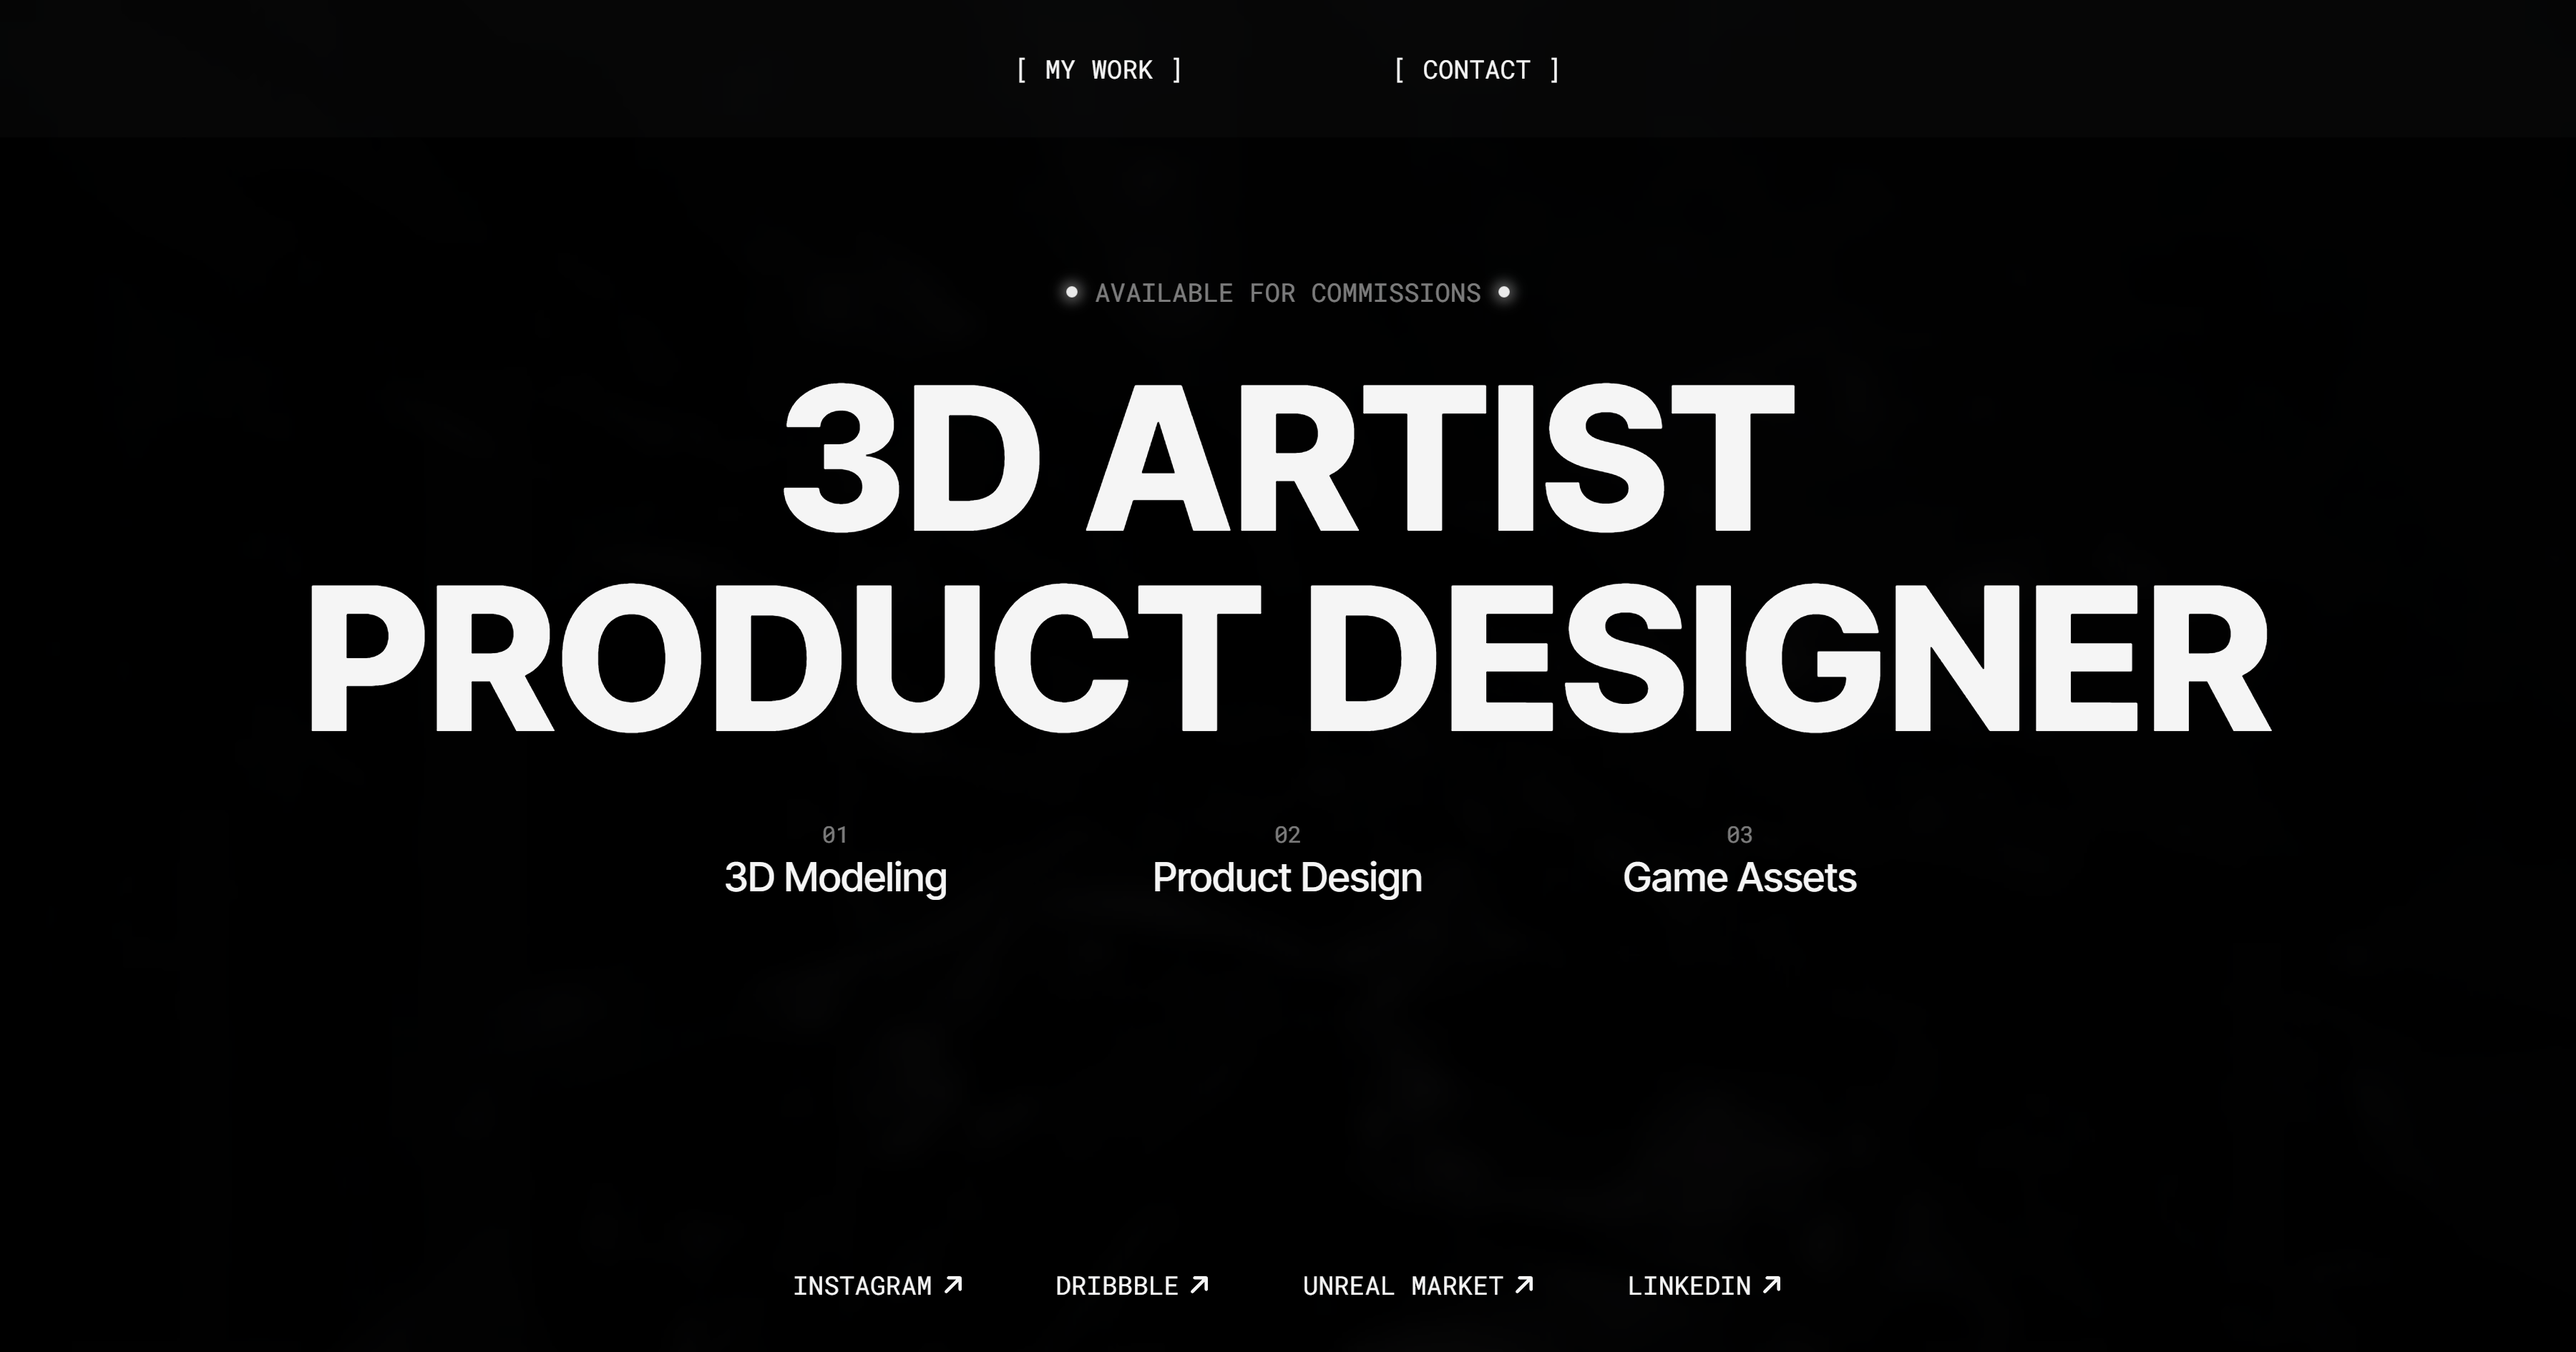
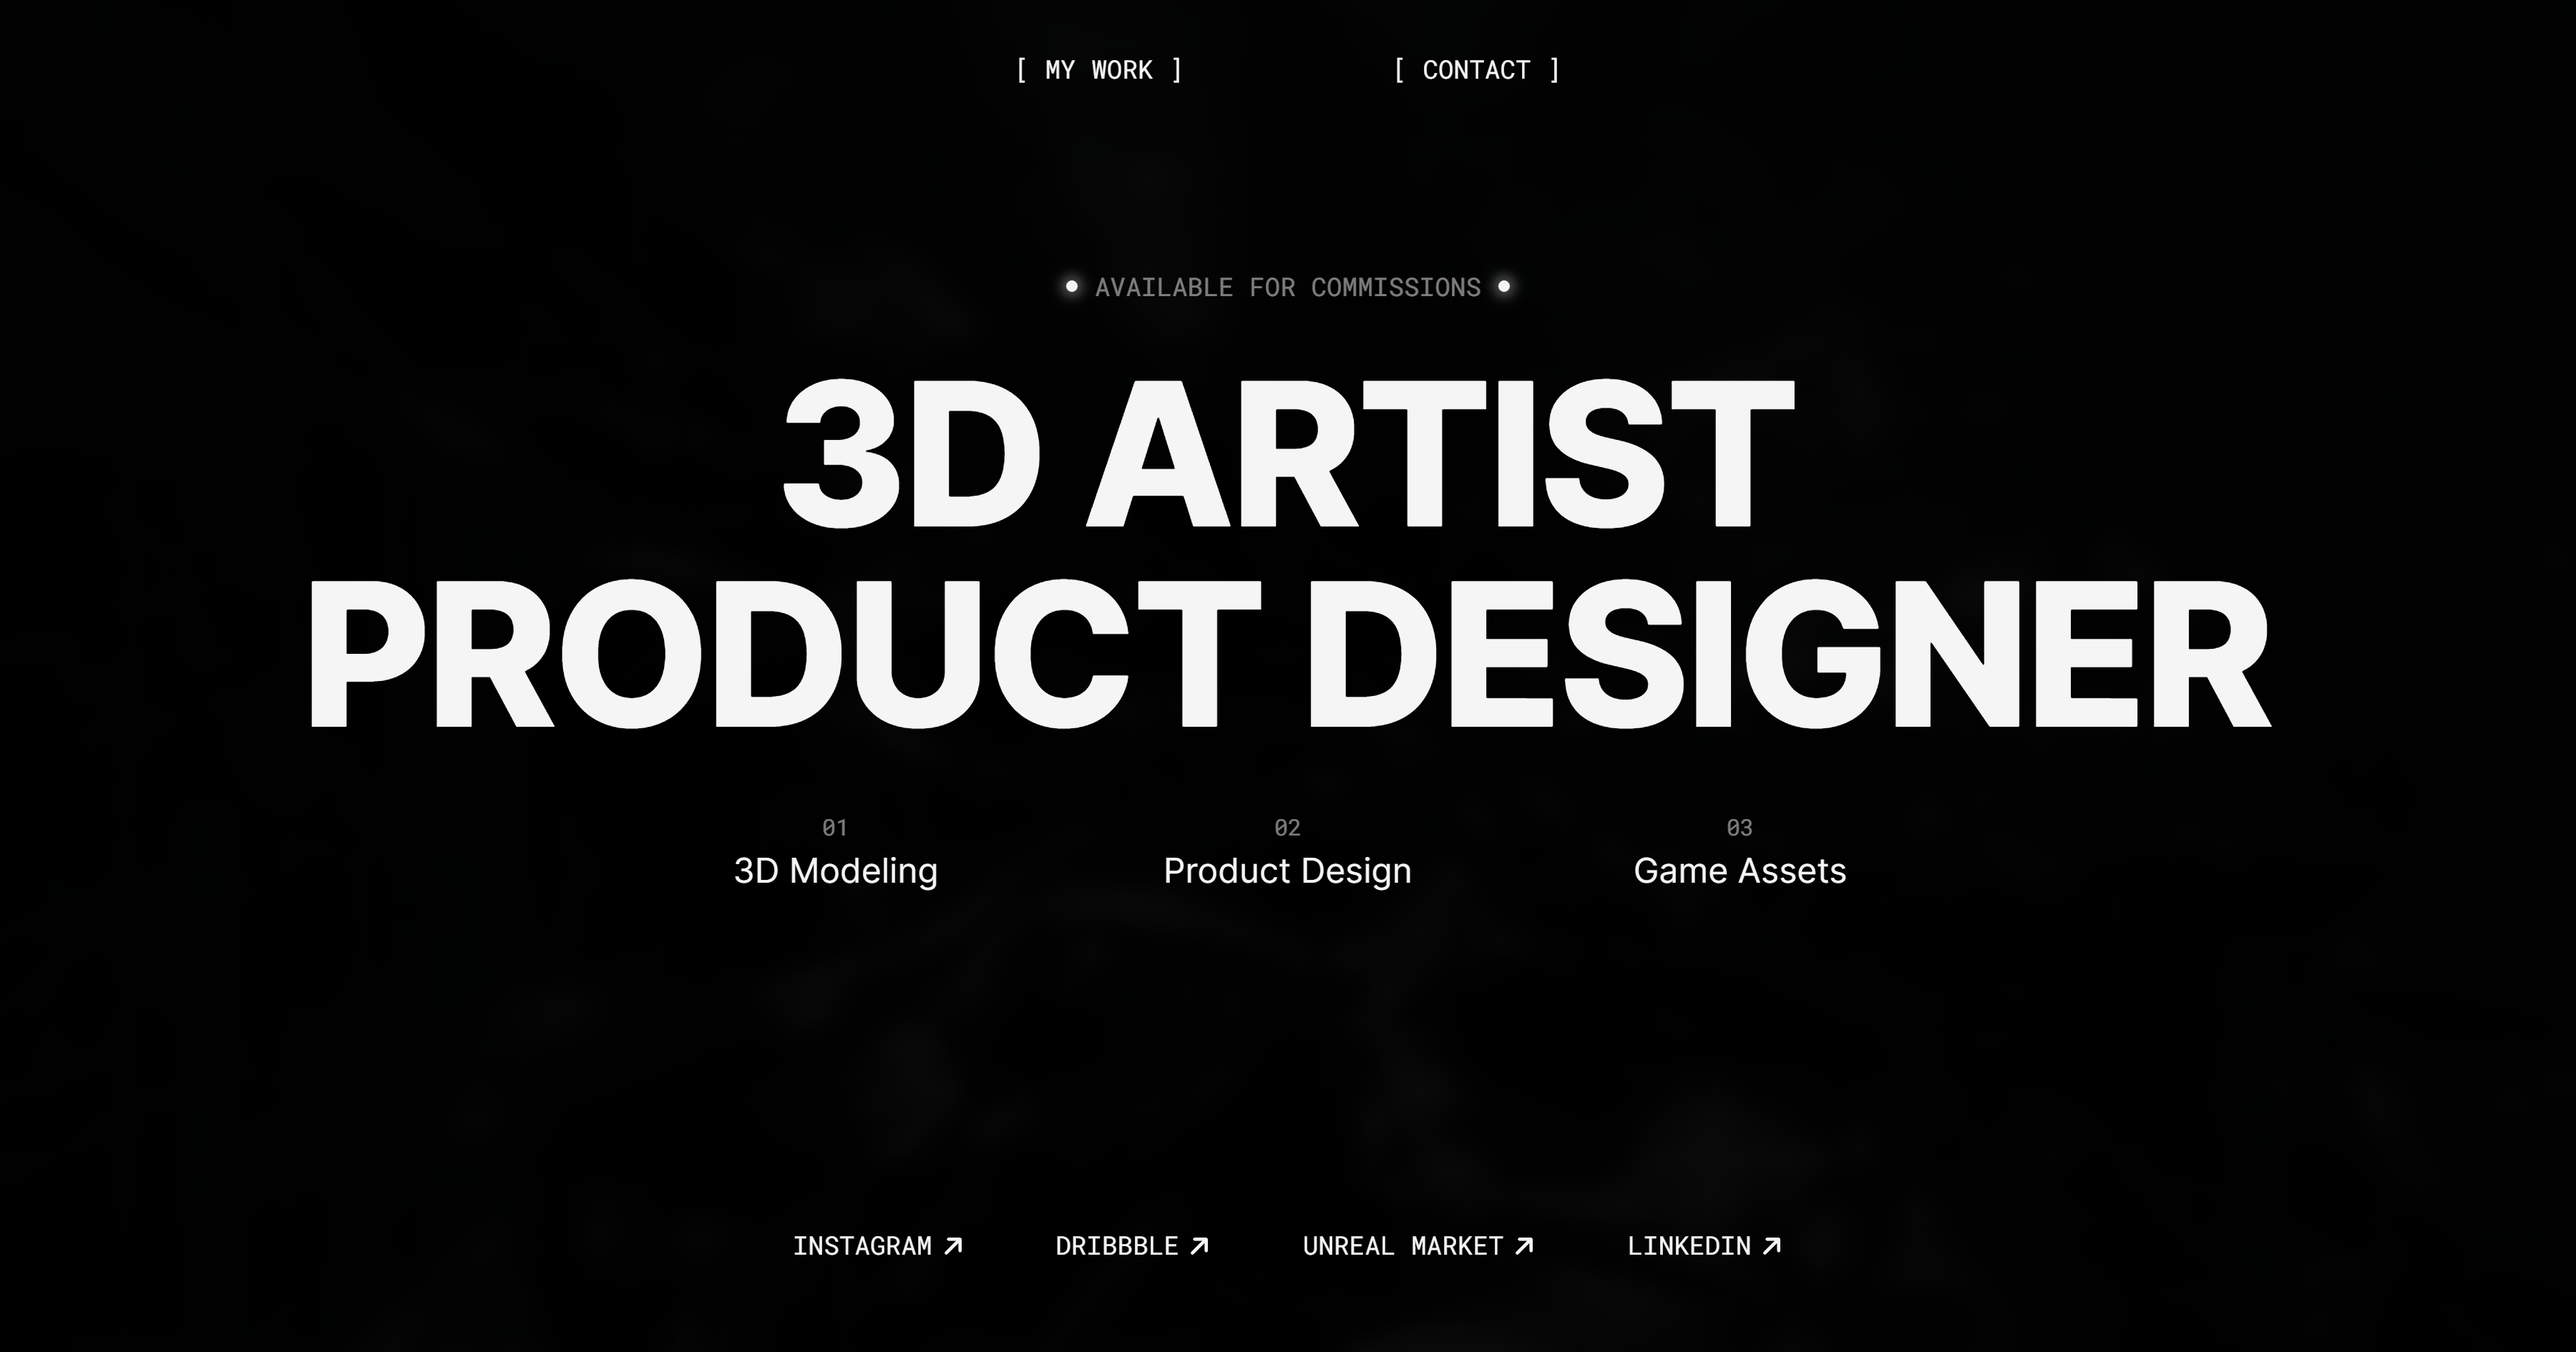
.

diff --git a/app/globals.css b/app/globals.css
@@ -36,13 +36,13 @@
     font-size: clamp(36px, 8vw, 140px)
   }
 
-  h2 {
+  /* h2 {
     display: inline;
     color: whitesmoke;
     font-family: "Inter Tight", sans-serif;
     font-weight: 500;
     font-size: clamp(24px, 2vw, 28px)
-  }
+  } */
 
   p,
   span,
@@ -56,8 +56,10 @@
     line-height: 1.6;
   }
 
+  h2,
   span {
     display: inline;
+    color: whitesmoke;
     font-size: clamp(20px, 2vw, 24px);
     font-weight: 400;
     line-height: 1.4;
@@ -103,7 +105,6 @@
     transition: 0.3s;
     width: 100%;
     z-index: 3;
-    /* background: #f5f5f505; */
     -webkit-backdrop-filter: blur(20px);
     backdrop-filter: blur(20px);
   }
@@ -116,7 +117,7 @@
   .img {
     object-fit: cover;
     width: 100%;
-    height: 950px;
+    height: 95vh;
     scale: 1;
     transition: 300ms ease-in-out;
   }
@@ -261,7 +262,7 @@
     backdrop-filter: blur(20px);
     -webkit-backdrop-filter: blur(20px);
     width: 95%;
-    height: 650px;
+    height: 95vh;
     position: relative;
     overflow: hidden;
     transition: 150ms linear;
@@ -277,6 +278,20 @@
       scale: 1.05;
       transition: 300ms ease-in-out;
     }
+  }
+
+  .overlay {
+    width: 100%;
+    position: absolute;
+    left: 0;
+    bottom: 0;
+    padding-top: 0.6rem;
+    padding-left: 1rem;
+    padding-bottom: 1rem;
+    display: flex;
+    flex-direction: column;
+    backdrop-filter: blur(20px);
+    -webkit-backdrop-filter: blur(20px);
   }
 
   .containerHolder,
@@ -329,7 +344,7 @@
 
   .containerTitle {
     width: 95%;
-    height: 80vh;
+    height: 75vh;
     display: flex;
     justify-content: center;
     flex-direction: column;
@@ -363,7 +378,7 @@
     background-repeat: no-repeat;
     background-size: 100% 100%;
     position: fixed;
-    opacity: 0.025;
+    opacity: 0.04;
   }
 
   .background-overlay {
@@ -376,10 +391,6 @@
 }
 
 @media (min-width: 1199px) {
-  h1 {
-    line-height: 1;
-  }
-
   .nav-links {
     width: 200px;
   }
@@ -388,10 +399,16 @@
     width: 65%;
   }
 
+  .overlay {
+    padding-top: 1rem;
+    padding-left: 2rem;
+    padding-bottom: 2rem;
+  }
+
   .containerImg {
     gap: 1rem;
     align-items: flex-end;
-    margin-block: 0;
+    /* margin-block: 0; */
     width: 95%;
   }
 
@@ -433,12 +450,10 @@
 
   .card {
     width: 40%;
-    height: 850px;
   }
 
   .cardShowcase {
     width: 60%;
-    height: 95vh;
   }
 
   .footer {

diff --git a/app/page.tsx b/app/page.tsx
@@ -68,7 +68,7 @@ export default function Home() {
               <div className="blinking-glow"></div>
             </div>
           </div>
-          <h1>
+          <h1 style={{ lineHeight: "1" }}>
             3D ARTIST
             <br />
             PRODUCT DESIGNER
@@ -108,25 +108,10 @@ export default function Home() {
           <div className="cardHolder" style={{ justifyContent: "center" }}>
             <Link className="card" href={"/project"} style={{ opacity: "1" }}>
               <img className="img" src="/1.jpg" />
-              <div
-                style={{
-                  width: "100%",
-                  position: "absolute",
-                  left: "0",
-                  bottom: "0",
-                  paddingTop: "1rem",
-                  paddingLeft: "2rem",
-                  paddingBottom: "2rem",
-                  display: "flex",
-                  flexDirection: "column",
-                  backdropFilter: "blur(20px)",
-                  WebkitBackdropFilter: "blur(20px)",
-                }}
-              >
+              <div className="overlay">
                 <h1
                   style={{
                     fontSize: "clamp(36px, 6vw, 64px)",
-                    lineHeight: "1.4",
                   }}
                 >
                   Keyboard
@@ -138,25 +123,10 @@ export default function Home() {
             </Link>
             <Link className="card" href={"/project"} style={{ opacity: "1" }}>
               <img className="img" src="/1.jpg" />
-              <div
-                style={{
-                  width: "100%",
-                  position: "absolute",
-                  left: "0",
-                  bottom: "0",
-                  paddingTop: "1rem",
-                  paddingLeft: "2rem",
-                  paddingBottom: "2rem",
-                  display: "flex",
-                  flexDirection: "column",
-                  backdropFilter: "blur(20px)",
-                  WebkitBackdropFilter: "blur(20px)",
-                }}
-              >
+              <div className="overlay">
                 <h1
                   style={{
                     fontSize: "clamp(36px, 6vw, 64px)",
-                    lineHeight: "1.4",
                   }}
                 >
                   Keyboard

diff --git a/app/project/page.tsx b/app/project/page.tsx
@@ -14,15 +14,11 @@ export default function Project() {
           </Link>
         </div>
         <div className="containerDescription">
-          <h1
-            style={{ fontSize: "clamp(36px, 6vw, 100px)", lineHeight: "1.4" }}
-          >
-            Keyboard
-          </h1>
+          <h1 style={{ fontSize: "clamp(36px, 6vw, 100px)" }}>Keyboard</h1>
           <p style={{ fontSize: "clamp(16px, 2vw, 18px)" }}>
             Product Design, 2024
           </p>
-          <span className="description">Description</span>
+          <h2 className="description">Description</h2>
           <p>
             Augmented Reality (AR) and Virtual Reality (VR) bridge the digital
             And physical worlds. They allow you to take in information and
@@ -30,6 +26,9 @@ export default function Project() {
           </p>
         </div>
         <div className="containerImg">
+          <div className="cardShowcase">
+            <img className="img" src="/1.jpg" />
+          </div>
           <div className="cardShowcase">
             <img className="img" src="/1.jpg" />
           </div>
